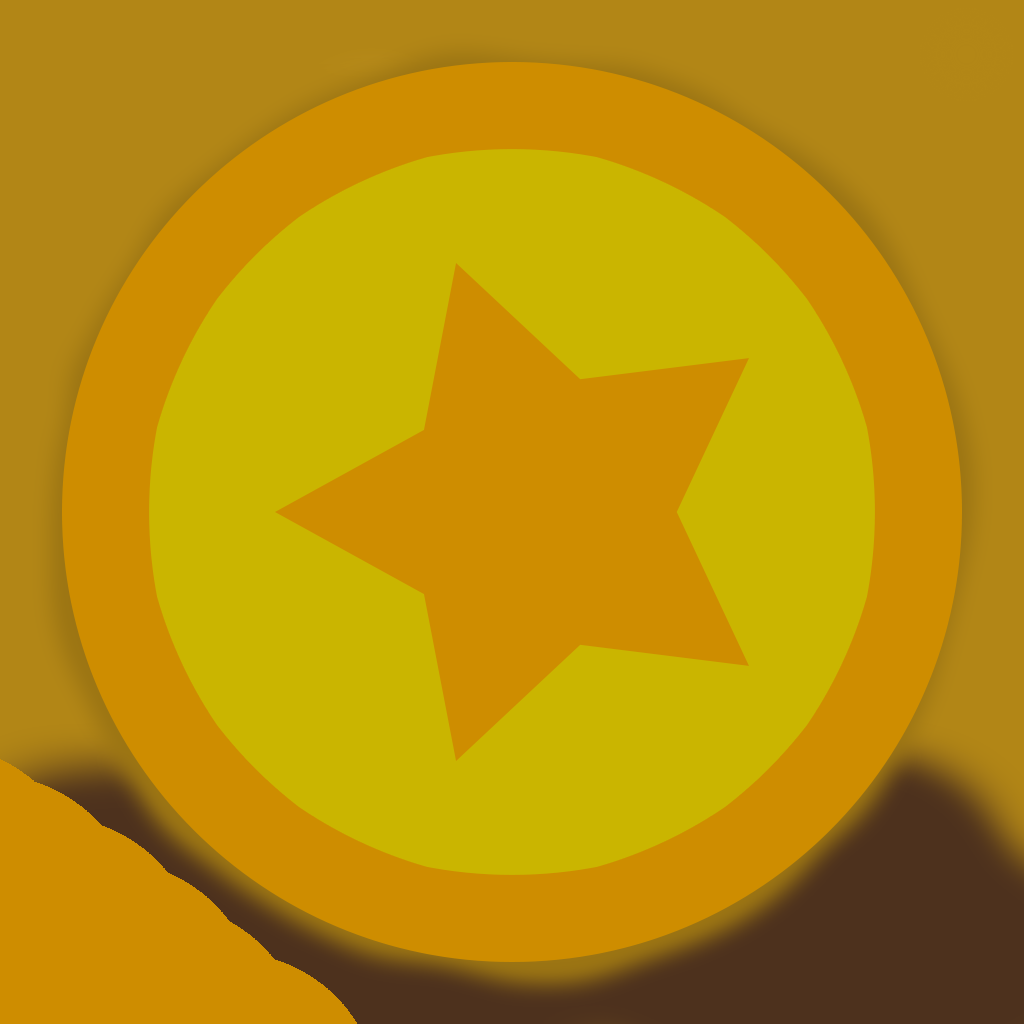
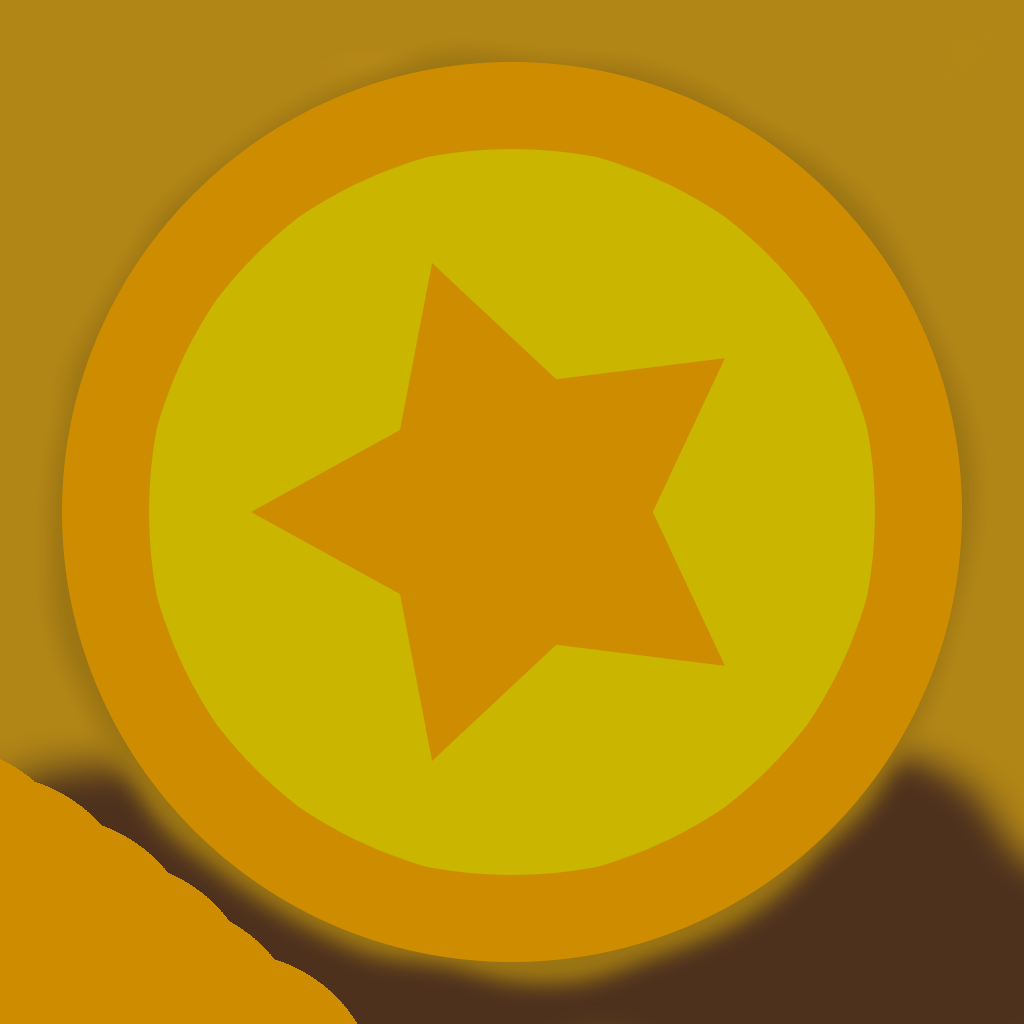
shadows partially working, terrain color fixed

diff --git a/NewTrafficRacer/Main/Modes/GameMode.cs b/NewTrafficRacer/Main/Modes/GameMode.cs
@@ -20,8 +20,8 @@ namespace NewTrafficRacer.Modes
 	{
         //Parameters
         private const int coinPoints = 1000;
-		private Vector3 initialLightPosition = new Vector3(20, 20, 20);
-        private Vector3 lightDirection = new Vector3(1, 1, 1);
+		private Vector3 initialLightPosition = new Vector3(10, 10, 10);
+        private Vector3 lightDirection = new Vector3(-1, -1, -1);
         private static Vector4 ambientColor = new Vector4(0.48f, 0.54f, 0.6f, 1f);
         private static Vector4 diffuseColor = new Vector4(1f, 0.8f, 0.8f, 1f);
         private const float diffuseIntensity = 1;
@@ -36,7 +36,7 @@ namespace NewTrafficRacer.Modes
 
 		//Graphics
 		private static Camera camera;
-		private static Lighting lighting;
+		public static Lighting lighting;
 		private PostProcessor postProcessor;
 		private DebugView debugView;
         private Effect effect;
@@ -248,18 +248,16 @@ namespace NewTrafficRacer.Modes
         {
             effect.Parameters["View"].SetValue(camera.View);
             effect.Parameters["Projection"].SetValue(camera.Projection);
-
+            
             effect.Parameters["AmbientColor"].SetValue(ambientColor);
 
             //lighting.Position.Normalize();
-            effect.Parameters["LightPosition"].SetValue(lighting.Direction);
+            effect.Parameters["LightPosition"].SetValue(-lighting.Direction);
             effect.Parameters["DiffuseColor"].SetValue(diffuseColor);
 
-            //effect.Parameters["ShadowMap"].SetValue(lighting.ShadowMap);
+            effect.Parameters["ShadowMap"]?.SetValue(lighting.ShadowMap);
 
             effect.Parameters["ChromaKeyReplace"].SetValue(new Vector4(-1, -1, -1, -1));
-
-            effect.CurrentTechnique = effect.Techniques["ShadowedScene"];
         }
 
         public float adjustedSpeed
@@ -284,19 +282,19 @@ namespace NewTrafficRacer.Modes
 
             //Set lighting parameters
             //effect.LightViewProjection = lighting.View * lighting.Projection; //COMMENTED FOR COMPILE
-            effect.Parameters["LightPosition"].SetValue(lighting.Direction);//effect.Parameters["DiffuseLightDirection"].SetValue(lighting.Direction); //CHANGED
+            //effect.Parameters["LightPosition"].SetValue(-lighting.Direction);//effect.Parameters["DiffuseLightDirection"].SetValue(lighting.Direction); //CHANGED
 			//effect.Parameters["AmbientColor"].SetValue(ambientColor);
 
             //Render shadow map
-            /*
+            
             graphics.SetRenderTarget(lighting.ShadowMap);
-			graphics.Clear(ClearOptions.Target | ClearOptions.DepthBuffer, Color.White, 1.0f, 0);
+			graphics.Clear(ClearOptions.Target | ClearOptions.DepthBuffer, Color.Black, 1.0f, 0);
 			effect.CurrentTechnique = effect.Techniques["ShadowMap"];
 
 			environment.Render(gameTime, graphics, effect);
 			player.Render(gameTime, effect);
 			trafficManager.RenderTraffic(gameTime, effect);
-            */
+            
 
 			//Render scene
 			graphics.SetRenderTarget(null);
@@ -345,9 +343,9 @@ namespace NewTrafficRacer.Modes
             }
 
 			//DEBUG: render shadow map
-			//spriteBatch.Begin(0, BlendState.Opaque, SamplerState.AnisotropicClamp);
-			//spriteBatch.Draw(lighting.ShadowMap, new Rectangle(0, 0, 600, 800), Color.White);
-			//spriteBatch.End();
+			spriteBatch.Begin(0, BlendState.Opaque, SamplerState.AnisotropicClamp);
+			spriteBatch.Draw(lighting.ShadowMap, new Rectangle(0, 0, 256, 256), Color.White);
+			spriteBatch.End();
 		}
 	}
 

diff --git a/NewTrafficRacer/Main/Graphics/RenderedModel.cs b/NewTrafficRacer/Main/Graphics/RenderedModel.cs
@@ -69,7 +69,7 @@ namespace NewTrafficRacer.Graphics
 			Matrix world =  Matrix.CreateScale(Size / meshSize * Scale) * Rotation * Matrix.CreateTranslation(Position + Offset);
 			effect.Parameters["World"].SetValue(world);
 			effect.Parameters["NormalMatrix"].SetValue(Matrix.Transpose(Matrix.Invert(world)));
-            //effect.Parameters["LightMatrix"].SetValue(world * TrafficGame.lighting.View * TrafficGame.lighting.Projection);
+            effect.Parameters["LightMatrix"].SetValue(world * GameMode.lighting.View * GameMode.lighting.Projection);
 			effect.Parameters["ModelTexture"].SetValue(Texture);
 
             Vector4 ChromaKeyReplace = effect.Parameters["ChromaKeyReplace"].GetValueVector4();
